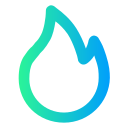
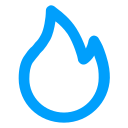
Add: 추천 질문 태그 추가

Changed region(s): [[0.125, 0.0312, 0.6875, 0.9688]]

diff --git a/containers/main/index.tsx b/containers/main/index.tsx
@@ -9,8 +9,8 @@ import { useDispatch, useSelector } from 'react-redux';
 import { useRouter } from 'next/router';
 import Link from 'next/link';
 import styled, { css } from 'styled-components';
-import { DUMMY } from '@common/data';
-import { GET_GPT_RECOMMEND_REQUEST } from '@libs/redux/modules/main/actions';
+import { DUMMY, TAG_LIST } from '@common/data';
+import { POST_GPT_RECOMMEND_REQUEST } from '@libs/redux/modules/main/actions';
 import { RootState } from '@libs/redux/modules';
 import LoadingSpinner from '@components/loading/Spinner';
 
@@ -22,9 +22,14 @@ type TVisibility = {
   attrVisibility: boolean;
 };
 
+type TActive = {
+  attrActive: boolean;
+};
+
 export default function MainIndex() {
   // Root State
   const { recommend, isLoadingRecommend } = useSelector((state: RootState) => state.main);
+  const [tag, setTag] = useState('지식');
   // State
   const [input, setInput] = useState<string>('');
   const [focus, setFocus] = useState<boolean>(false);
@@ -61,8 +66,8 @@ export default function MainIndex() {
   );
 
   const onClickDispatchGptRecommend = useCallback(() => {
-    dispatch({ type: GET_GPT_RECOMMEND_REQUEST });
-  }, []);
+    dispatch({ type: POST_GPT_RECOMMEND_REQUEST, payload: { input: tag } });
+  }, [tag]);
 
   useEffect(() => {
     if (inputRef !== null && inputRef.current !== null) {
@@ -72,7 +77,7 @@ export default function MainIndex() {
 
   useEffect(() => {
     onClickDispatchGptRecommend();
-  }, []);
+  }, [tag]);
 
   // Render Item
   const renderItem = useCallback((line: any, index: number) => {
@@ -108,6 +113,14 @@ export default function MainIndex() {
       );
     }
   }, [recommend, isLoadingRecommend]);
+
+  const renderTagList = useCallback(() => {
+    return TAG_LIST.map(item => (
+      <TagItem key={item.id} attrActive={tag === item.name} onClick={() => setTag(item.name)}>
+        {item.name}
+      </TagItem>
+    ));
+  }, [tag]);
 
   return (
     <Wrapper>
@@ -150,6 +163,7 @@ export default function MainIndex() {
                 onClick={onClickDispatchGptRecommend}
               />
             </LineHeader>
+            <TagBox>{renderTagList()}</TagBox>
             <ListBox>{renderList()}</ListBox>
           </PopularBlock>
         </ContentBolck>
@@ -251,7 +265,7 @@ const ButtonBox = styled.button`
   right: 7px;
   ${({ theme }) => theme.flexSet('center', 'center', 'row')};
   ${({ theme }) => theme.boxSet('55px', '55px', '50%')};
-  background: linear-gradient(to top, #2af499, #009ffc);
+  background-color: #009ffc;
   cursor: pointer;
   :hover {
     opacity: 0.8;
@@ -288,10 +302,11 @@ const PopularBlock = styled.div`
 
 const LineHeader = styled.div`
   ${({ theme }) => theme.flexSet('space-between', 'center', 'row')};
-  ${({ theme }) => theme.boxSet('100%', '60px', '0px')};
+  ${({ theme }) => theme.boxSet('100%', 'auto', '0px')};
   border-bottom: 0.5px solid #606060;
   & > div {
     ${({ theme }) => theme.flexSet('center', 'center', 'row')};
+    padding: 5px 0;
     & > img {
       ${({ theme }) => theme.boxSet('auto', '25px', '0px')};
       margin-right: 8px;
@@ -310,7 +325,6 @@ const ListBox = styled.div`
   ${({ theme }) => theme.flexSet('center', 'center', 'row')};
   ${({ theme }) => theme.boxSet('100%', '100%', '0px')};
   flex-wrap: wrap;
-  padding: 20px 0;
   gap: 20px;
 `;
 
@@ -379,4 +393,31 @@ const BottomContent = styled.div`
       }
     }
   }
+`;
+
+const TagBox = styled.div`
+  ${({ theme }) => theme.flexSet('flex-start', 'center', 'row')};
+  ${({ theme }) => theme.boxSet('100%', '100%', '0px')};
+  padding: 15px 0;
+  overflow-x: scroll;
+  gap: 7px;
+  -ms-overflow-style: none;
+  scrollbar-width: none;
+  &::-webkit-scrollbar {
+    display: none;
+  }
+`;
+
+const TagItem = styled.p<TActive>`
+  padding: 7px 12px;
+  border: 1px solid #b1b1b1;
+  border-radius: 15px;
+  cursor: pointer;
+  ${props =>
+    props.attrActive &&
+    css`
+      color: white;
+      background-color: #009ffc;
+      border: 1px solid #009ffc;
+    `}
 `;

diff --git a/libs/redux/modules/main/actions.ts b/libs/redux/modules/main/actions.ts
@@ -12,15 +12,15 @@ export const initThread = createAction(INIT_THREAD)();
 export const SET_STATIC_DATA = 'SET_STATIC_DATA';
 export const setStaticData = createAction(SET_STATIC_DATA)<TSetStaticData>();
 
-export const GET_GPT_RECOMMEND_URL = `${API_HOST}/gpt/recommend`;
-export const GET_GPT_RECOMMEND_REQUEST = 'GET_GPT_RECOMMEND_REQUEST';
-export const GET_GPT_RECOMMEND_SUCCESS = 'GET_GPT_RECOMMEND_SUCCESS';
-export const GET_GPT_RECOMMEND_FAILURE = 'GET_GPT_RECOMMEND_FAILURE';
+export const POST_GPT_RECOMMEND_URL = `${API_HOST}/gpt/recommend`;
+export const POST_GPT_RECOMMEND_REQUEST = 'POST_GPT_RECOMMEND_REQUEST';
+export const POST_GPT_RECOMMEND_SUCCESS = 'POST_GPT_RECOMMEND_SUCCESS';
+export const POST_GPT_RECOMMEND_FAILURE = 'POST_GPT_RECOMMEND_FAILURE';
 export const getGptRecommendAction = createAsyncAction(
-  GET_GPT_RECOMMEND_REQUEST,
-  GET_GPT_RECOMMEND_SUCCESS,
-  GET_GPT_RECOMMEND_FAILURE,
-)<EmptyAction<never>, string, AxiosError>();
+  POST_GPT_RECOMMEND_REQUEST,
+  POST_GPT_RECOMMEND_SUCCESS,
+  POST_GPT_RECOMMEND_FAILURE,
+)<types.TPostGptRecommendReq, types.TPostGptRecommendRes, AxiosError>();
 
 export const POST_GPT_CHAIN_URL = `${API_HOST}/gpt/chain`;
 export const POST_GPT_CHAIN_REQUEST = 'POST_GPT_CHAIN_REQUEST';

diff --git a/libs/redux/modules/main/sagas.ts b/libs/redux/modules/main/sagas.ts
@@ -6,23 +6,25 @@ import * as types from './types';
 import { PayloadAction } from 'typesafe-actions';
 import { OPEN_TOAST } from '../toast/actions';
 
-function* getGptRecommendSaga() {
+function* postGptRecommendSaga(
+  action: PayloadAction<'POST_GPT_RECOMMEND_REQUEST', types.TPostGptRecommendReq>,
+) {
   try {
-    const result: string = yield call(apis.getGptRecommendApi);
+    const result: string = yield call(apis.postGptRecommendApi, action.payload);
     yield put({
-      type: actions.GET_GPT_RECOMMEND_SUCCESS,
+      type: actions.POST_GPT_RECOMMEND_SUCCESS,
       payload: result,
     });
   } catch (e) {
     console.log(e);
     yield put({
-      type: actions.GET_GPT_RECOMMEND_FAILURE,
+      type: actions.POST_GPT_RECOMMEND_FAILURE,
       error: e,
     });
   }
 }
 function* watchGptRecommend() {
-  yield takeLatest(actions.GET_GPT_RECOMMEND_REQUEST, getGptRecommendSaga);
+  yield takeLatest(actions.POST_GPT_RECOMMEND_REQUEST, postGptRecommendSaga);
 }
 
 function* postGptChainSaga(

diff --git a/libs/redux/modules/main/reducers.ts b/libs/redux/modules/main/reducers.ts
@@ -42,16 +42,16 @@ const mainReducer = createReducer<TMainReducer, Actions>(initialState, {
     relation: action.payload.relation,
   }),
 
-  [actions.GET_GPT_RECOMMEND_REQUEST]: state => ({
+  [actions.POST_GPT_RECOMMEND_REQUEST]: state => ({
     ...state,
     isLoadingRecommend: true,
   }),
-  [actions.GET_GPT_RECOMMEND_SUCCESS]: (state, action) => ({
+  [actions.POST_GPT_RECOMMEND_SUCCESS]: (state, action) => ({
     ...state,
     recommend: action.payload,
     isLoadingRecommend: false,
   }),
-  [actions.GET_GPT_RECOMMEND_FAILURE]: state => ({
+  [actions.POST_GPT_RECOMMEND_FAILURE]: state => ({
     ...state,
     isLoadingRecommend: false,
   }),

diff --git a/libs/redux/modules/main/apis.ts b/libs/redux/modules/main/apis.ts
@@ -8,10 +8,10 @@ import axios from 'axios';
 import * as actions from './actions';
 import * as types from './types';
 
-export async function getGptRecommendApi() {
+export async function postGptRecommendApi(payload: types.TPostGptRecommendReq) {
   try {
-    const response = await axios.get(`${actions.GET_GPT_RECOMMEND_URL}`);
-    const result: string = JSON.parse(JSON.stringify(response.data)).data;
+    const response = await axios.post(`${actions.POST_GPT_RECOMMEND_URL}`, payload);
+    const result: types.TPostGptRecommendRes = JSON.parse(JSON.stringify(response.data)).data;
     return result;
   } catch (e) {
     throw new Error(e as any);

diff --git a/common/data.ts b/common/data.ts
@@ -56,3 +56,11 @@ export const DUMMY = [
       '1. 대략적인 비용이 어느 정도 발생할까요?\n2. 그날 날씨가 괜찮을까요?\n3. 3일차에 마실 맥주를 미리 추천해줄 수 있을까요?',
   },
 ];
+
+export const TAG_LIST = [
+  { id: 0, name: '지식' },
+  { id: 1, name: '여행' },
+  { id: 2, name: '주식' },
+  { id: 4, name: '게임' },
+  { id: 5, name: '개발' },
+];

diff --git a/pages/_document.tsx b/pages/_document.tsx
@@ -48,7 +48,7 @@ export default class MyDocument extends Document {
           />
           <meta
             name="google-site-verification"
-            content="3FuUbOQX1_tXA115sYEmVB7dz6LoSawrXGlQr8MBVNo"
+            content="7DjeWBjb0IBf0iAMjq_k-uhg1i96SG06nWGfwYTc2sU"
           />
           <script
             async

diff --git a/libs/redux/modules/main/types.ts b/libs/redux/modules/main/types.ts
@@ -10,6 +10,12 @@ export type TSetStaticData = {
   relation: string;
 };
 
+export type TPostGptRecommendReq = {
+  input: string;
+};
+
+export type TPostGptRecommendRes = string;
+
 export type TPostGptChainReq = {
   assistant: Array<{ prompt: string; answer: string }>;
   input: string;
